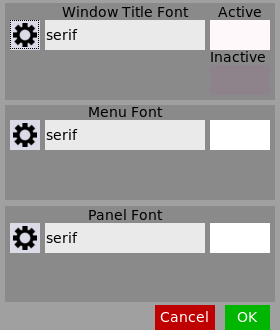
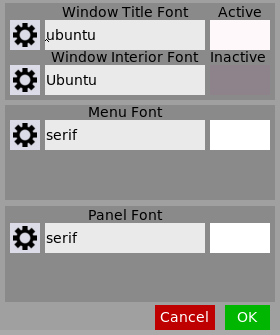
add in fixed Cmakelists (hopefully once and for all fix disparity between Ubuntu and other distros cmake/fltk fiasco update README.md add new font window screenshots and update old one

diff --git a/README.md b/README.md
@@ -1,4 +1,4 @@
-#JWM Settings Manager
+# JWM Settings Manager
 Build Depends on Debian/Ubuntu
 - cmake
 - gcc-multilib [amd64]
@@ -32,7 +32,7 @@ For example
 `./jwm-settings-manager --debug > jwm-settings-manager.log`
 will save all the output to a file.
 
-###Command Line Options
+### Command Line Options
 jwm-settings-manager will open the Main settings screen if no options are supplied
 configure JWM easily
 
@@ -58,78 +58,84 @@ Options:
  -l --clock        show clock settings
  -s --shortcuts         show shortcut editor
 ```
-##Panel
+## Panel
 ![Alt text](/screenshots/panel.png?raw=true "Panel Window")
 
 This portion allows you to configure the Menus, Application launchers, indicators, pager, appearance, sizing and position, etc..
 
-##Desktop
+## Desktop
 ![Alt text](/screenshots/desktop.png?raw=true "Desktop Window")
 
 This allows you to change the background, and amount of virtual desktops.
 It also supports filemanagers creating the desktop background (pcmanfm and gsettings... i.e. thunar/nautilus/etc..)
 
-##Windows
+## Windows
 ![Alt text](/screenshots/windows.png?raw=true "Windows Window")
 
 This allows you to change the window buttons, appearance, and configure window groups
 You can also change the GTK widget theme
 
-##Keyboard
+## Keyboard
 ![Alt text](/screenshots/keyboard.png?raw=true "Keyboard Window")
 
 This allows you to change keyboard shortcuts.
 There is a 'key grabber' for combinations, as well as a drop down for XF86 keys
 There is also a preliminary effort to configure keyboard layout.
 
-##Touchpad
+## Touchpad
 ![Alt text](/screenshots/touchpad.png?raw=true "Touchpad Window")
 
 This allows you to configure your touchpad.
 It also configures the JWM options, and if no touchpad exists only JWM options will be shown
 
-##Themes
+## Themes
 ![Alt text](/screenshots/themes.png?raw=true "Themes Window")
 
 Switch between a few premade themes, with support for user themes in
 ~/.themes
 
-##Icons
+## Icons
 ![Alt text](/screenshots/icons.png?raw=true "Icons Window")
 
 Change JWM icons.  You can manually edit the lines, or simply change GTK icon theme
 
-##Fonts
+## Fonts
 ![Alt text](/screenshots/fonts.png?raw=true "Fonts Window")
 
-Configure all fonts (and font colors) used in JWM through a graphical font manager
+Configure all fonts (and font colors) used in JWM through a graphical font manager.  You can also choose the GTK interior window fonts.
 
-##Autostart
+![Alt text](/screenshots/fonts-subwin.png?raw=true "Fonts Chooser Window")
+
+You may control many aspects of the font using the advanced options (many Xft font options are supported)
+
+![Alt text](/screenshots/fonts-subwin-advanced.png?raw=true "Fonts Chooser Window - Advanced")
+
+## Autostart
 ![Alt text](/screenshots/autostart.png?raw=true "Autostart Window")
 
 Configure and edit all JWM Startup commands, as well as handle XDG autostart through the desktop-file-editor (via pkexec, for system files)
 
-##Desktop File Editor
+## Desktop File Editor
 ![Alt text](/screenshots/desktop-file-editor.png?raw=true "Desktop File Editor Window")
 
 A very full featured desktop file editor offering the ability to edit almost everything possible in a desktop file.
 
-##Menus
+## Menus
 ![Alt text](/screenshots/menus.png?raw=true Menus" Window")
 
 Edit menus, and configure menu items easily
 
-##Clock Settings
+## Clock Settings
 ![Alt text](/screenshots/clock.png?raw=true "Clock Settings Window")
 
 Edit the clock display easily, and modify timezone settings quickly
 
-##Shutdown window
+## Shutdown window
 ![Alt text](/screenshots/shutdown.png?raw=true "Shutdown Window")
 
 This launches a variety of programs to control shutdown/suspend/logout from a JWM/ToriOS session
 
-##Popups window
+## Popups window
 ![Alt text](/screenshots/popups.png?raw=true "Popups Window")
 
 Edit the JWM tooltip popups, as well as dunst Notifications (if dunst is installed)
